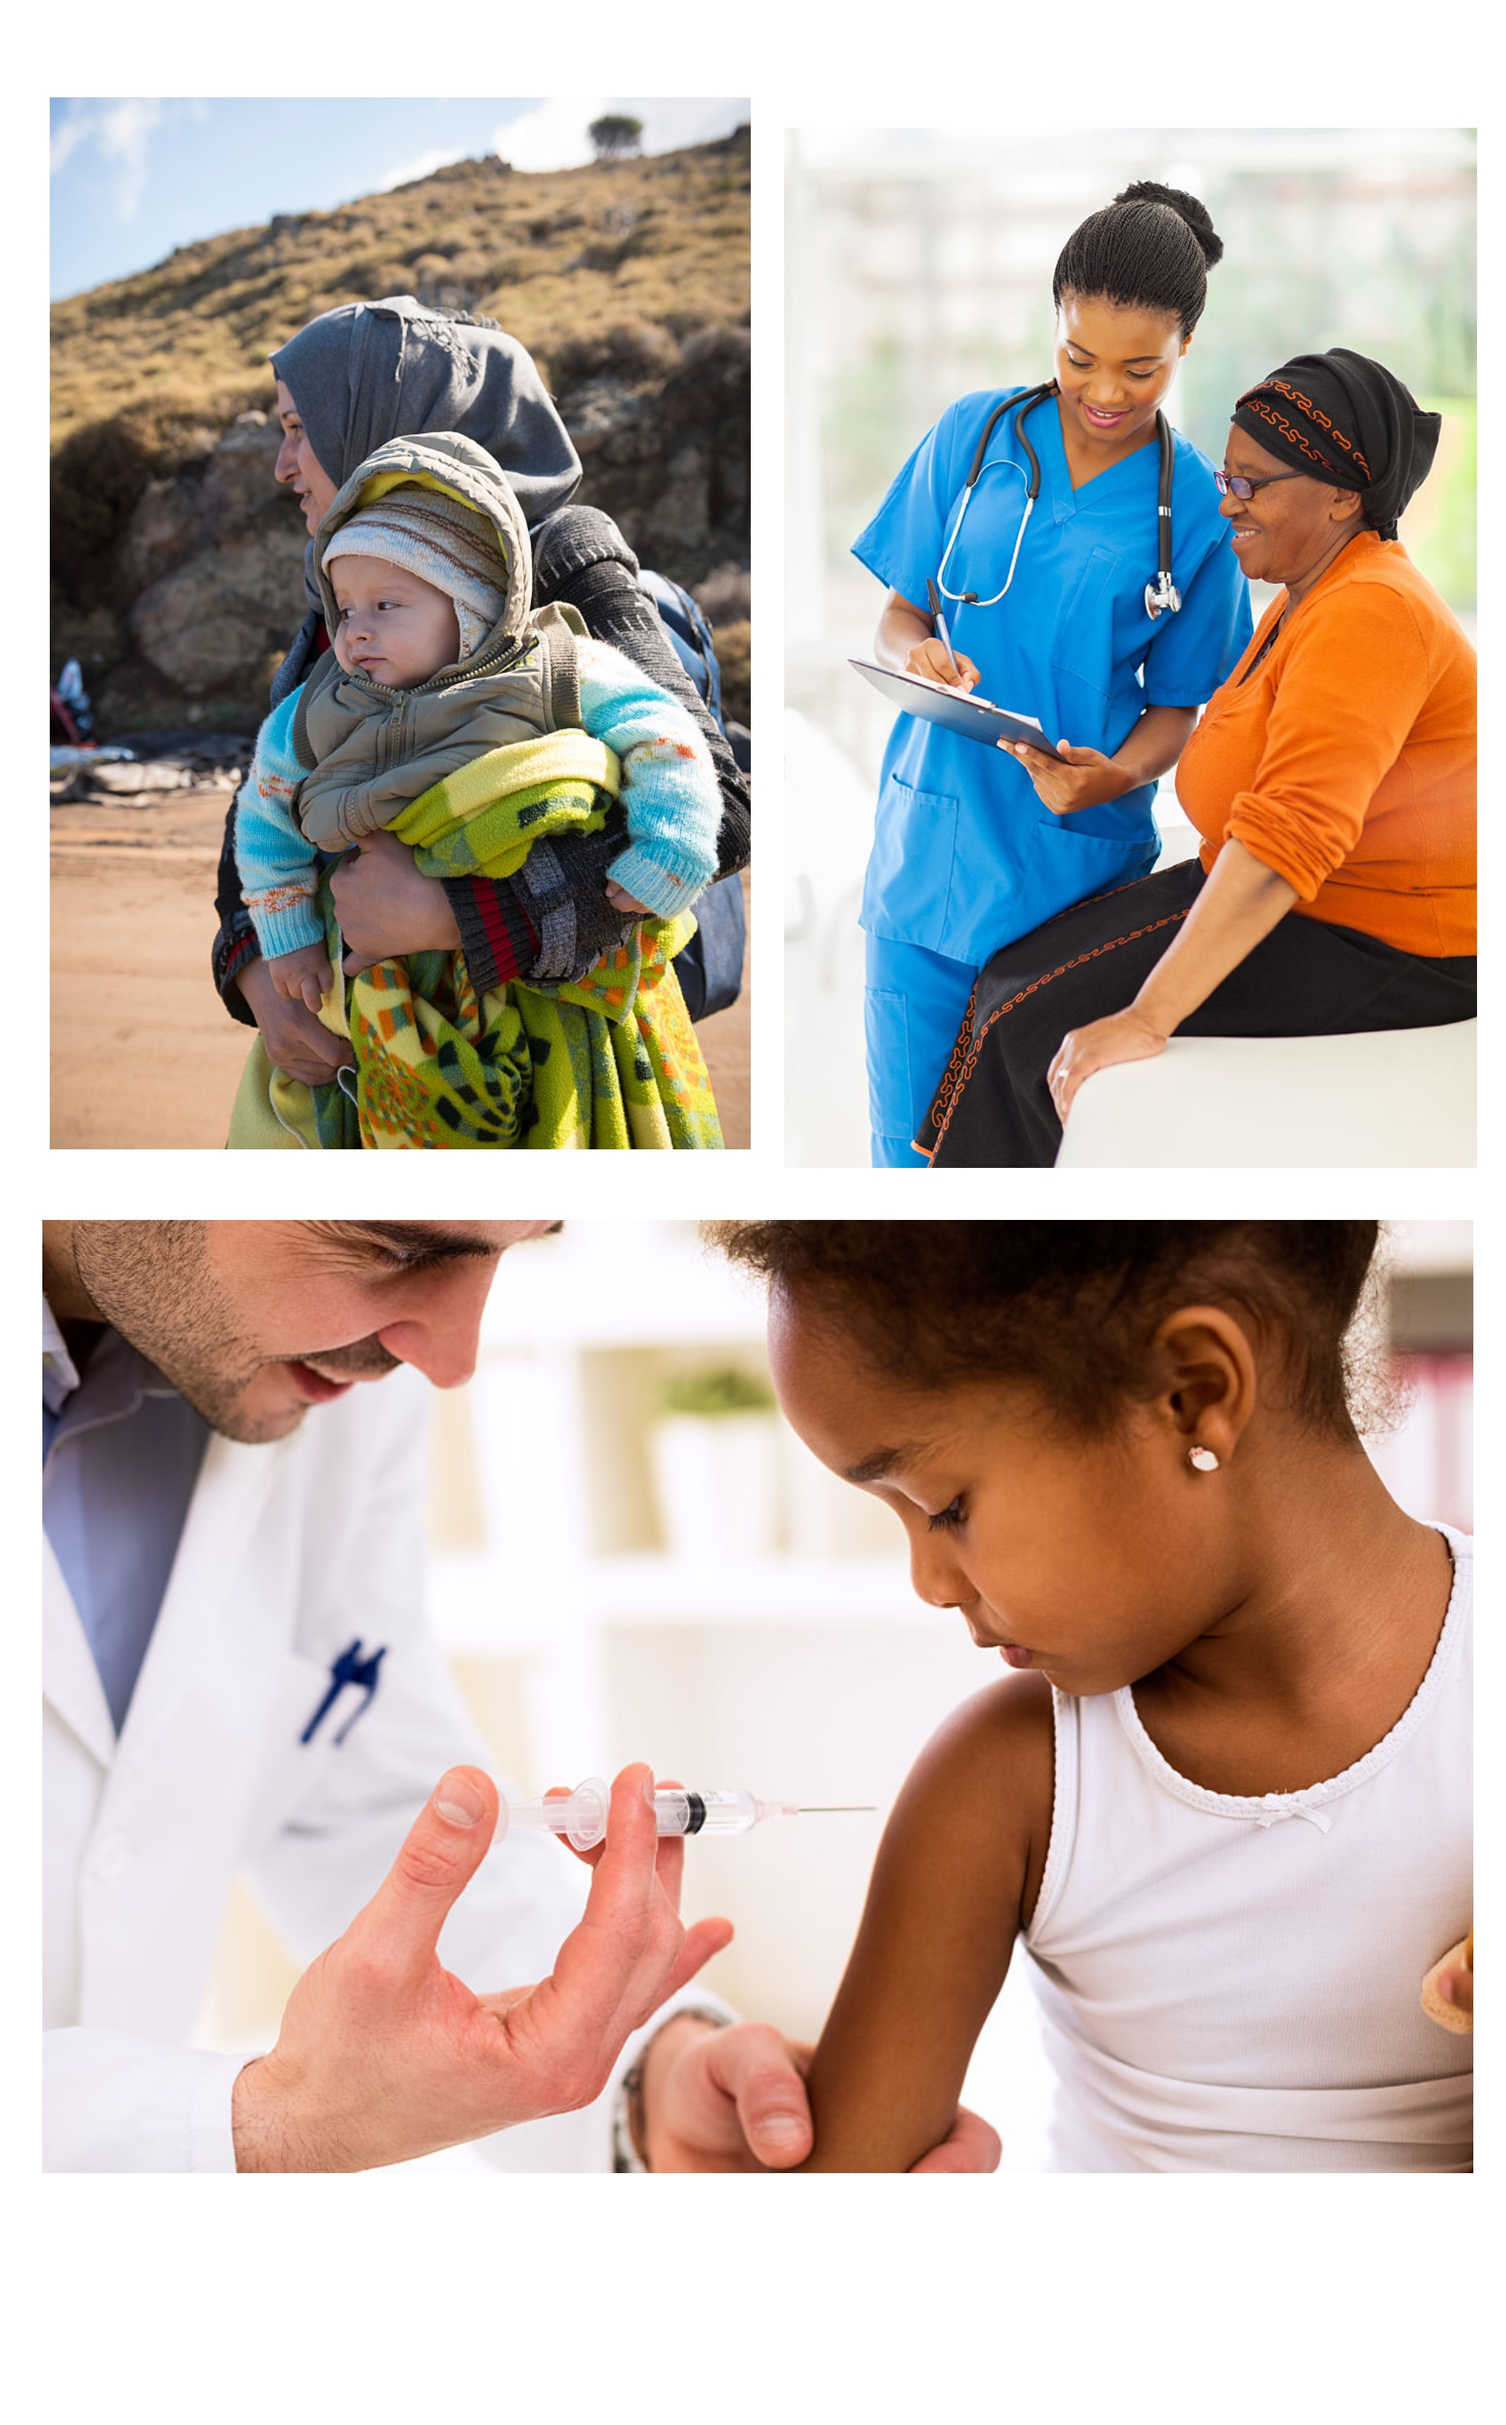
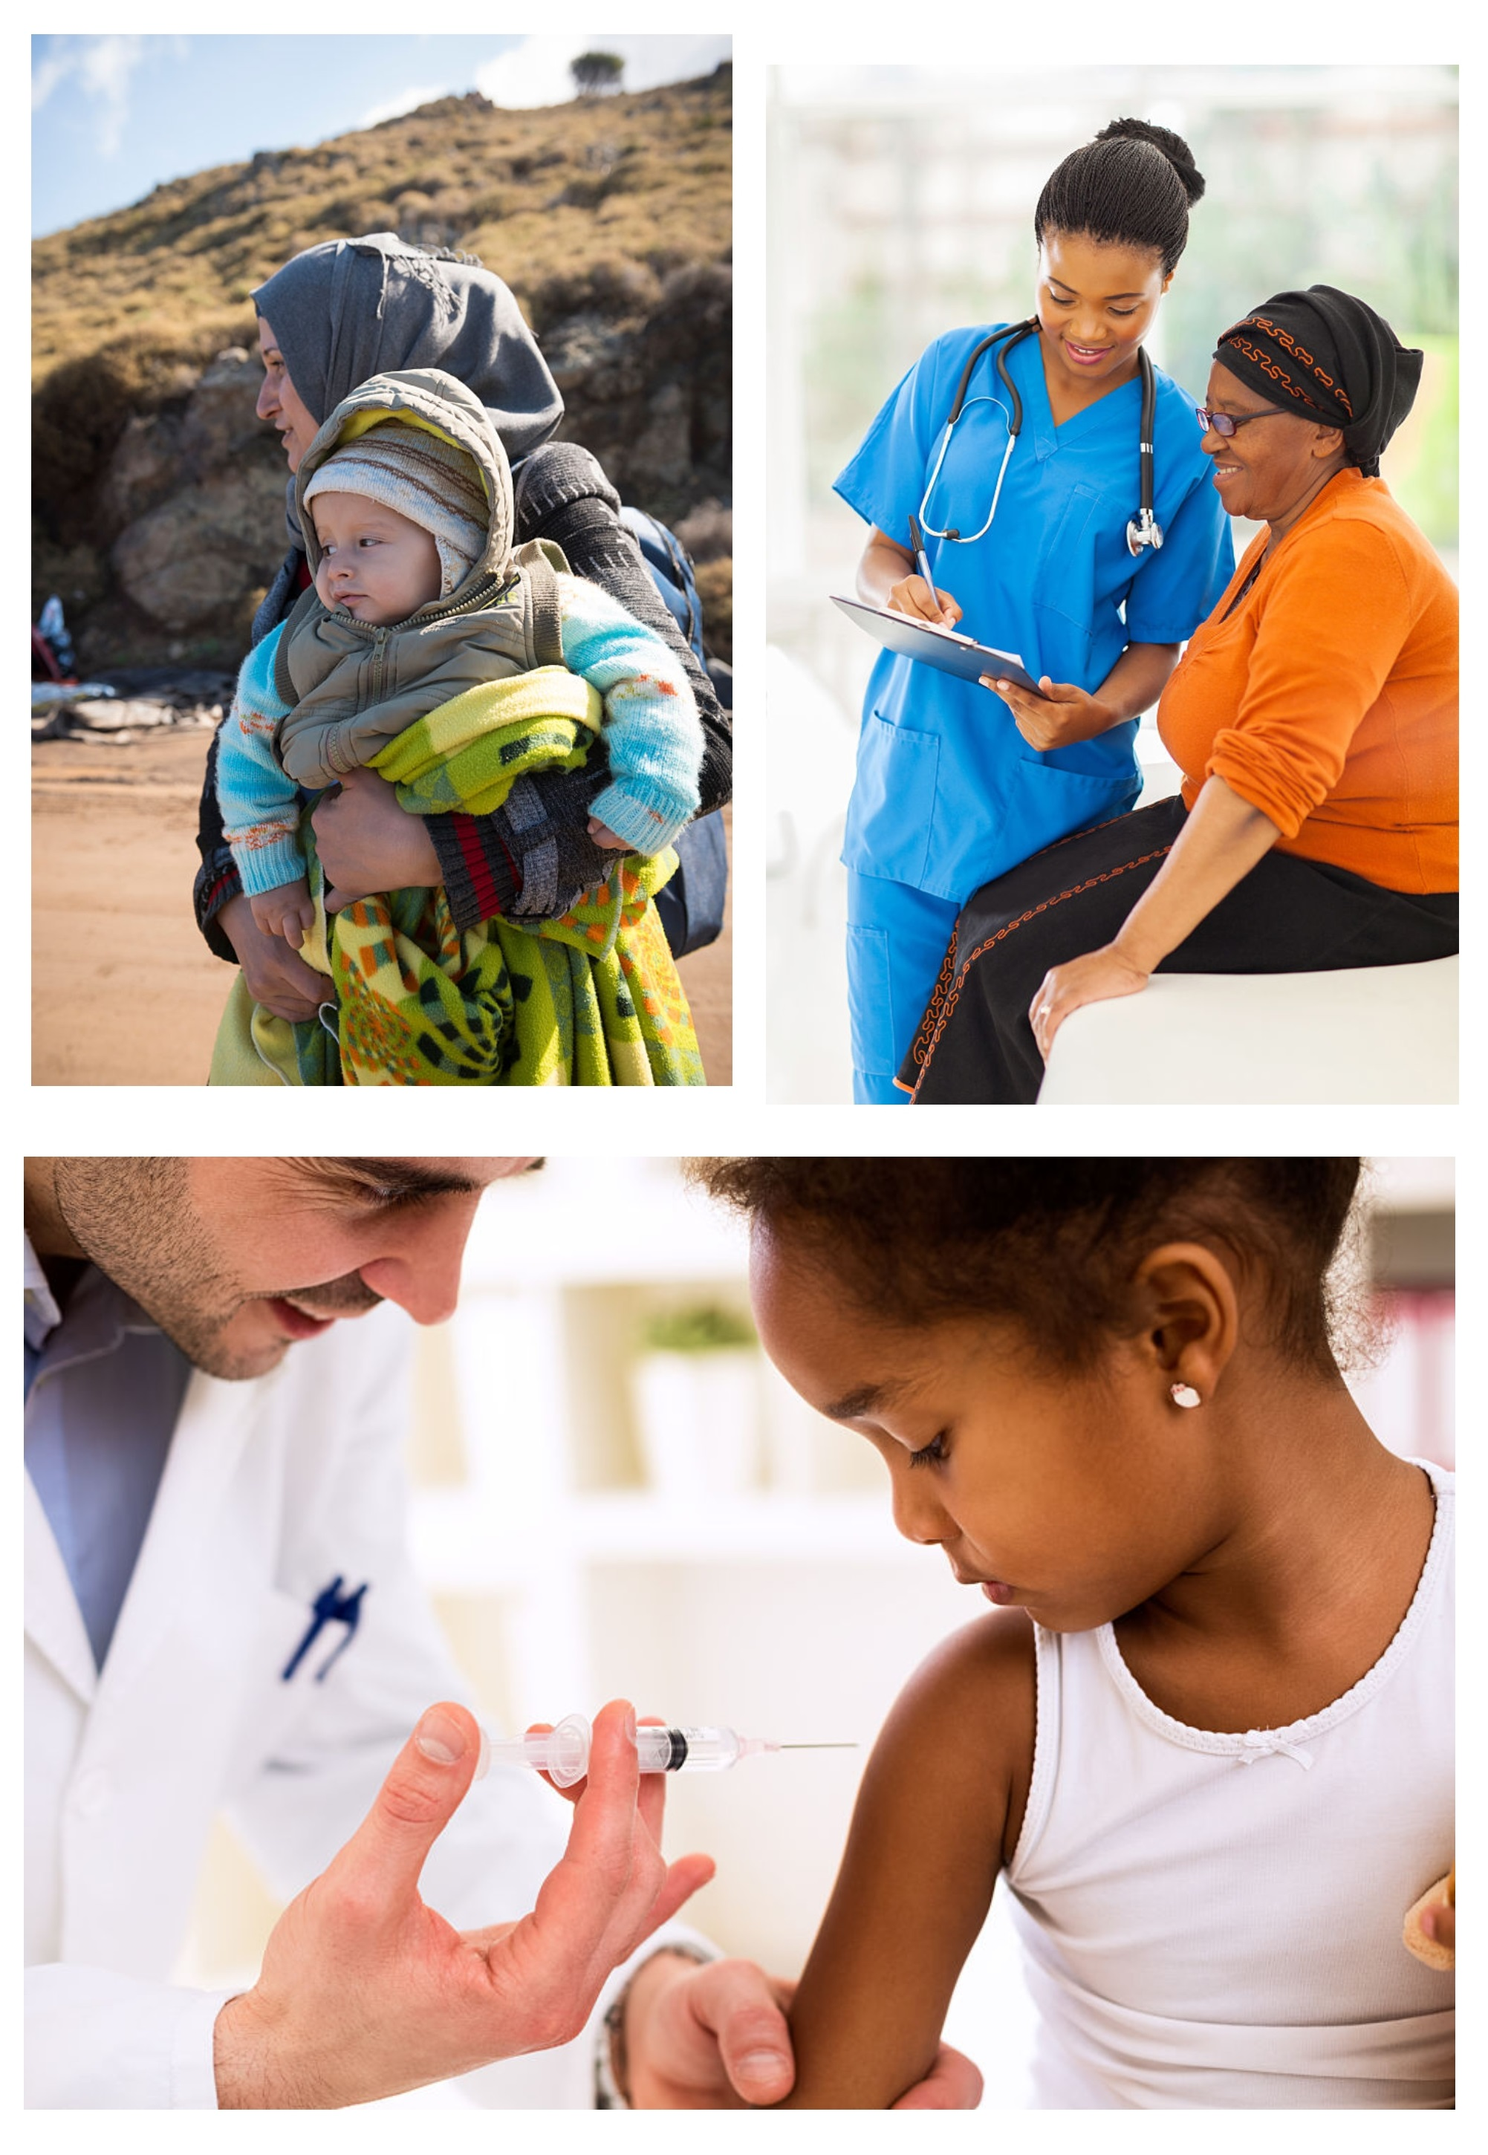
linking started with Backend

diff --git a/refugee_management/src/components/reducers/refugeeInitialState.js b/refugee_management/src/components/reducers/refugeeInitialState.js
@@ -1,96 +1,13 @@
 var initState = {
-    "name": "Jack Daniels",
-    "id": "",
-    "gender": "Male",
-    "age": 30,
-    "vaccinerecord": [
-        {
-            "name": "polio",
-            "status": null,
-            "location":null,
-            "date":null,
-            "camp":null
-        },
-        {
-            "name": "hepetitis-b",
-            "status": null,
-            "location":null,
-            "date":null,
-            "camp":null
-        },
-
-        {
-            "name": "depteria",
-            "status": null,
-            "location":null,
-            "date":null,
-            "camp":null
-        },
-
-        {
-            "name": "pneumococcal",
-            "status": null,
-            "location":null,
-            "date":null,
-            "camp":null
-        },
-        {
-            "name": "rotavirus",
-            "status": null,
-            "location":null,
-            "date":null,
-            "camp":null
-        },
-        {
-            "name": "influenza",
-            "status": null,
-            "location":null,
-            "date":null,
-            "camp":null
-        },
-        {
-            "name": "MMR",
-            "status": null,
-            "location":null,
-            "date":null,
-            "camp":null
-        },
-        {
-            "name": "chickenpox",
-            "status": null,
-            "location":null,
-            "date":null,
-            "camp":null
-        },
-        {
-            "name": "hpv",
-            "status": null,
-            "location":null,
-            "date":null,
-            "camp":null
-        },
-        {
-            "name": "tdap",
-            "status": null,
-            "location":null,
-            "date":null,
-            "camp":null
-        }
-
-
-    ],
-    "medical-record": [
-        {
-            "date": null,
-            "hospital": null,
-            "issue": null,
-            "physician": null,
-            "admit-date": null,
-            "release-date": null,
-            "prescription": null
-        }
-    ]
-
+    "refugeeId": null,
+    "firstName": null,
+    "lastName": null,
+    "dob": null,
+    "sex": null,
+    "nationality": null,
+    "camp": null,
+    "healthRecord":null,
+    "vaccinations": []
 };
 
 export default initState;

diff --git a/refugee_management/src/components/frontPageButtons.jsx b/refugee_management/src/components/frontPageButtons.jsx
@@ -1,21 +1,25 @@
 import React from 'react';
 import {BrowserRouter, Route, Link} from 'react-router-dom';
 import logo from "./reach_logo.png";
+import collage from '../images/collage.jpg';
 import RefugeeHome from './refugeeHome.jsx';
 class FrontEndPageButton extends React.Component{
     render(){
         
         return(
             <div className='cartoonpage h-100'>
-                <div className="card text-white bg-primary-frontpage mb-3">
+                <div className="card text-white bg-primary-frontpage">
                   <div className="card-body">
                       <div><img src={logo}/> </div>
                       <p className="card-text"><span className="fontred">RE</span>fugee <span className="fontred">A</span>ssistance in <span className="fontred">C</span>linics and <span className="fontred">H</span>ospitals</p>
                       <p className="card-text">Powered by Blockchain</p>
                     </div>
                   </div>
+                  <div className="row d-flex justify-content-center">
+                      <img src={collage} height="350" width="350"/>
+                    </div>
             <div className="frontpagebuttons h-100">
-                <div className="mt-5">
+                <div>
                     <div className="col-lg-12 col-sm-12">
                         <Link to='/refugeesecondpage' className='p-1'>
                             <button type="button" className="btn btn-primary btn-lg btn-block">Refugee Management</button>

diff --git a/refugee_management/src/components/action/actionCreator.js b/refugee_management/src/components/action/actionCreator.js
@@ -1,22 +1,28 @@
 var axios =require('axios');
 
 export function refresh(data){
+    console.log("inside refresh");
     return({'type':"REFRESH", 'payload':data});
 }
 
-export function fetch(id){
-    console.log("inside fetch");
+export function fetch(id, callback){
     return(function(dispatch){
-        return axios.get("").then((data)=>{
-            dispatch(refresh(data));
-        })
+        return axios.get("https://hps-bna-client.mybluemix.net/getAssetDetails",{
+            params: {
+                param0: 'Refugee',
+                param1:id
+            }
+          }).then((response)=>{
+        console.log(response.data);    
+        dispatch(refresh(response.data));
+        }).catch((error)=>{throw(error);});
     })
 }
 
 export function updateVaccineRecord(id){
     return(function(dispatch){
         return axios.post("").then(()=>{
-            fetch(id);
+            dispatch(fetch(id));
         })
     })
 }
@@ -24,7 +30,7 @@ export function updateVaccineRecord(id){
 export function updateMedicalRecord(id){
     return(function(dispatch){
         return axios.post("").then(()=>{
-            fetch(id);
+            dispatch(fetch(id));
         })
     })
 }

diff --git a/refugee_management/src/components/refugeeSignIn.jsx b/refugee_management/src/components/refugeeSignIn.jsx
@@ -24,15 +24,12 @@ class RefugeeSignIn extends React.Component{
         if( document.getElementById("exampleInputEmail1").value=="ali1234"){
             this.props.history.push("/refugeesecondpage/refugeesingin/user");
         }
-        if( document.getElementById("exampleInputEmail1").value=="jack1234"){
+        if( document.getElementById("exampleInputEmail1").value=="ben1234"){
+            this.props.dispatch(actionCreator.fetch("rf1"));
             this.props.history.push("/refugeesecondpage/refugeesingin/user");
+            
         }
-    //     axios.get("http://trucklease-network.mybluemix.net/getAssetDetails").then(function (response) {
-    //         console.log(response.json());
-    //   });
-        // fetch("http://trucklease-network.mybluemix.net/getAssetDetails").then(function (response) {
-        //     console.log(response.json());
-      
+   
     }
     render(){
         return(

diff --git a/refugee_management/src/components/userVaccineRecord.jsx b/refugee_management/src/components/userVaccineRecord.jsx
@@ -17,11 +17,11 @@ class UserVaccineRecord extends React.Component {
         <h2 className="mx-2">Vaccine Record</h2>
         <div className="scrollablediv">
           {
-            this.props.state1.vaccinerecord.map((item)=>{
-              if(item.status!=null)
-                  return (<Vaccinecardtick vaccine={item.name} date={item.date} location={item.location} camp={item.camp} />)
-              else
-                  return(<Vaccinecardcross vaccine={item.name} date={item.date} location={item.location} camp={item.camp} />)
+            this.props.state1.vaccinations.map((item)=>{
+              // if(item.status!=null)
+                  return (<Vaccinecardtick vaccine={item.vaccine} date={item.timestamp} />)
+              // else
+              //     return(<Vaccinecardcross vaccine={item.name} date={item.date} location={item.location} camp={item.camp} />)
         })
       }
         </div>

diff --git a/refugee_management/src/components/userLabel.jsx b/refugee_management/src/components/userLabel.jsx
@@ -14,9 +14,9 @@ class UserLable extends React.Component{
             </div>
             <span className="col-8 col-8">
               <h5 className="card-title"><b>{this.props.cardtitle}</b></h5>
-              <br/><b>Name: </b>{this.props.state1.name}
-              <br/><b>Age: </b>{this.props.state1.age}
-              <br/><b>Gender: </b>{this.props.state1.gender}
+              <br/><b>Name: </b>{this.props.state1.firstName}
+              <br/><b>DOB: </b>{this.props.state1.dob}
+              <br/><b>Gender: </b>{this.props.state1.sex}
             </span>
           </div>
         </div>

diff --git a/refugee_management/src/components/vaccinecardtick.jsx b/refugee_management/src/components/vaccinecardtick.jsx
@@ -5,11 +5,11 @@ import AlarmIcon from 'react-material-icons/icons/action/alarm';
 class Vaccinecard extends React.Component {
 
   render() {
-
+    let vacc=this.props.vaccine.split("#");
     return (
       <div className="card mb-2">
         <div className="card-header text-white bg-success">
-          {this.props.vaccine}<span><i className="material-icons tickicon">done</i></span>
+          {vacc[1]}<span><i className="material-icons tickicon">done</i></span>
         </div>
         <div className="card-body col-8">
           <h5 className="card-title"><b>Date:</b>{this.props.date}</h5>

diff --git a/refugee_management/src/App.css b/refugee_management/src/App.css
@@ -35,9 +35,9 @@
    background-size: 100% 100%;
 } */
  .cartoonpage{
-  background-image: url("images/collage.jpg");
+  /* background-image: url("images/collage.jpg");
  background-size: 200px;
-  background-repeat:no-repeat;
+  background-repeat:no-repeat; */
 
 } 
 .fontred{
@@ -65,7 +65,7 @@
   height:400px;
 }
 .frontpagebuttons{
-  margin-top: 30vh;
+  margin-top:0;
 }
 
 .bg-primary-frontpage{
